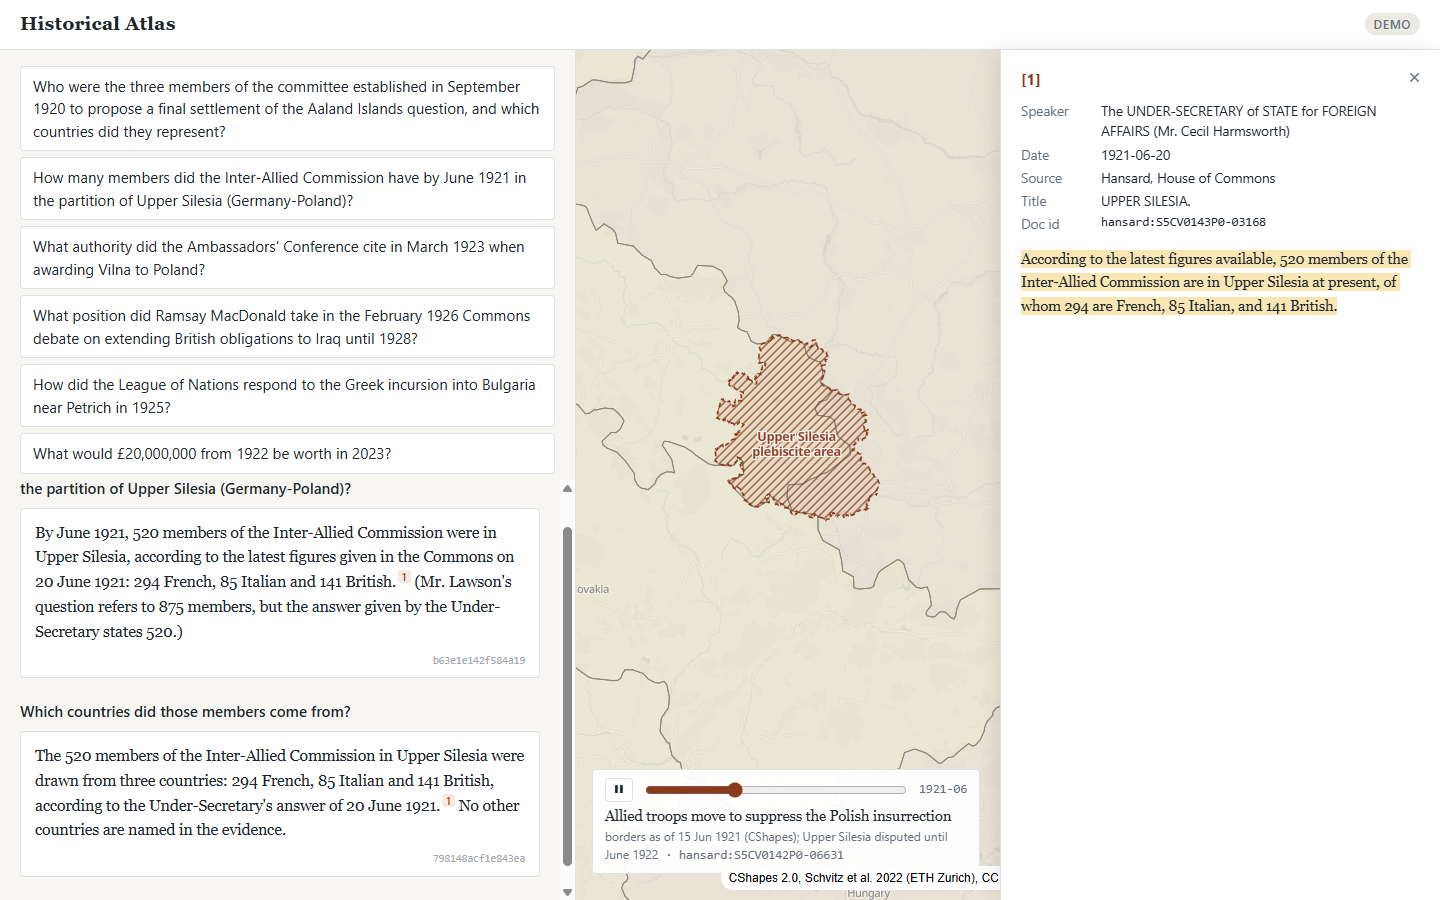
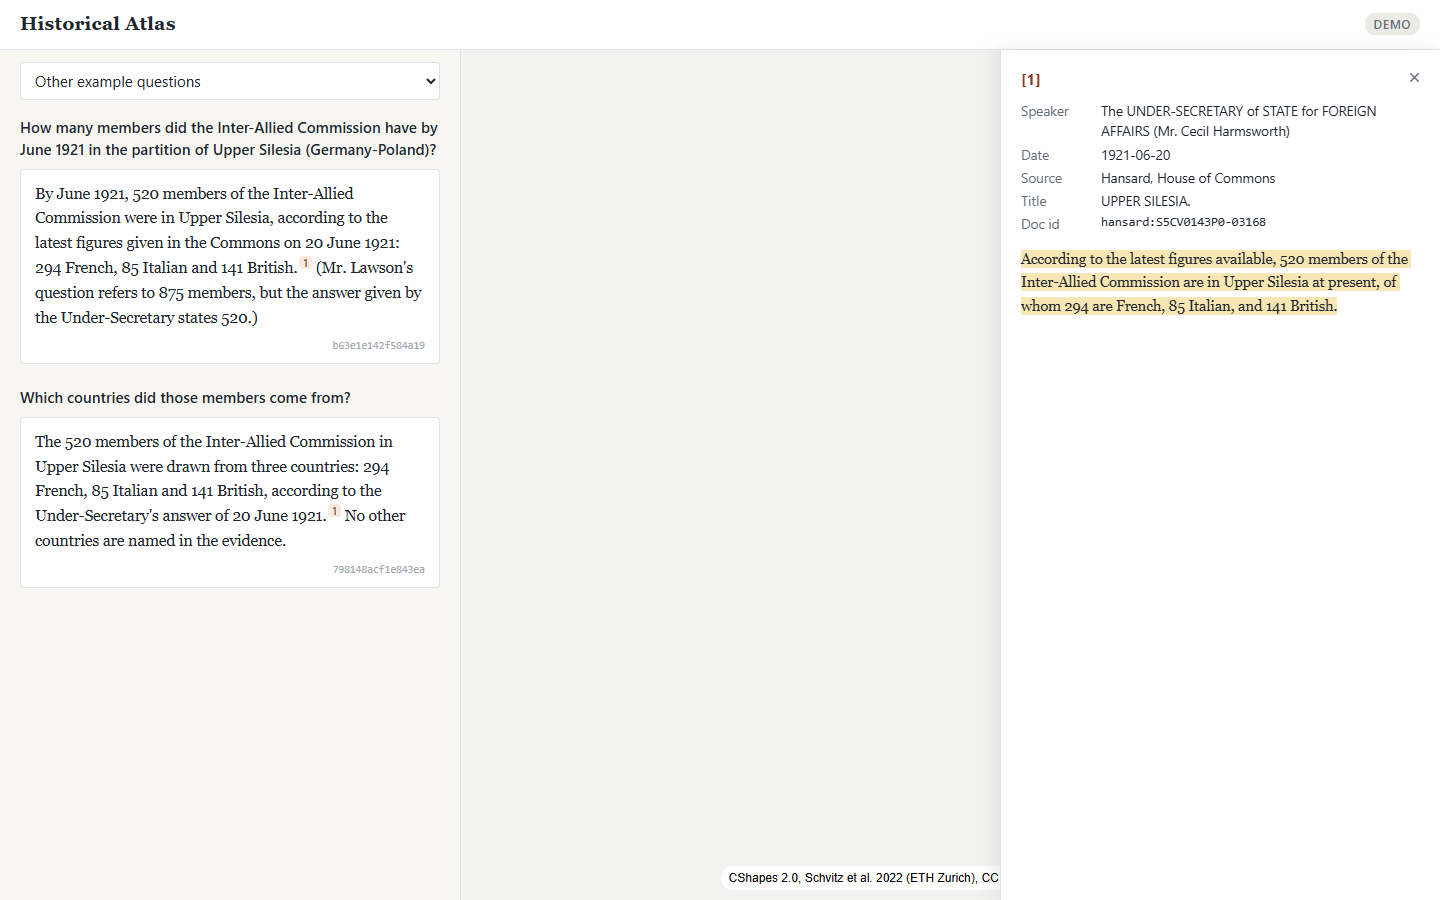
Map: overlays snapped to CShapes borders, pan/zoom limited to Europe + Near East, wider map, compact example picker

diff --git a/frontend/src/App.tsx b/frontend/src/App.tsx
@@ -8,6 +8,8 @@ import "./App.css";
 const API = import.meta.env.VITE_API_URL ?? "";
 const MAP_STYLE = "https://tiles.openfreemap.org/styles/positron";
 const EUROPE: [number, number, number, number] = [-11, 34, 48, 63];
+// Europe plus the Near East (Mosul): the user cannot pan or zoom out beyond this.
+const MAX_BOUNDS: [number, number, number, number] = [-28, 24, 64, 72];
 const REVEAL_MS = 1000;
 const STEPS = ["Searching sources", "Weighing evidence", "Writing answer"];
 const STEP_AT_MS = [0, 2500, 5500];
@@ -104,7 +106,7 @@ function CaseMap({ caseId, panelOpen }: { caseId: string | null; panelOpen: bool
   useEffect(() => {
     if (!el.current) return;
     const m = new maplibregl.Map({
-      container: el.current, style: MAP_STYLE, bounds: EUROPE, maxZoom: 7,
+      container: el.current, style: MAP_STYLE, bounds: EUROPE, maxZoom: 7, minZoom: 2.6, maxBounds: MAX_BOUNDS, renderWorldCopies: false,
       attributionControl: { compact: true, customAttribution: "CShapes 2.0, Schvitz et al. 2022 (ETH Zurich), CC BY-NC-SA 4.0" },
     });
     m.addControl(new maplibregl.NavigationControl({ showCompass: false }), "top-right");
@@ -472,11 +474,20 @@ export default function App() {
             <>
               {notice && <div className="notice">{notice}</div>}
               {!liveMode && (
-                <div className="examples">
-                  {demo.map((c) => (
-                    <button key={c.title} className="example" onClick={() => playDemo(c)}>{c.title}</button>
-                  ))}
-                </div>
+                turns.length === 0 ? (
+                  <div className="examples">
+                    {demo.map((c) => (
+                      <button key={c.title} className="example" onClick={() => playDemo(c)}>{c.title}</button>
+                    ))}
+                  </div>
+                ) : (
+                  <div className="examples compact">
+                    <select value="" onChange={(e) => { const c = demo[Number(e.target.value)]; if (c) playDemo(c); }}>
+                      <option value="" disabled>Other example questions</option>
+                      {demo.map((c, i) => <option key={c.title} value={i}>{c.title}</option>)}
+                    </select>
+                  </div>
+                )
               )}
               <div className="turns">
                 {turns.map((t) => (

diff --git a/frontend/src/App.css b/frontend/src/App.css
@@ -34,7 +34,7 @@ input { font: inherit; }
 .ask button[disabled] { opacity: 0.5; cursor: default; }
 .link { background: none; border: none; color: var(--muted); text-decoration: underline; padding: 0; }
 
-.body { flex: 1; display: grid; grid-template-columns: minmax(420px, 40%) 1fr; min-height: 0; }
+.body { flex: 1; display: grid; grid-template-columns: minmax(360px, 32%) 1fr; min-height: 0; }
 .chat { display: flex; flex-direction: column; border-right: 1px solid var(--line); min-height: 0; background: var(--bg); }
 .examples { display: flex; flex-direction: column; gap: 6px; padding: 16px 20px 6px; }
 .example { text-align: left; padding: 8px 12px; border: 1px solid var(--line); background: var(--card); border-radius: 4px; color: var(--ink); }
@@ -90,3 +90,5 @@ input { font: inherit; }
 .tl-date { font-family: var(--mono); font-size: 12.5px; color: var(--muted); }
 .tl-label { font-family: var(--serif); font-size: 14.5px; margin-top: 4px; }
 .tl-meta { font-size: 12px; color: var(--muted); }
+.examples.compact { padding: 12px 20px 4px; }
+.examples.compact select { width: 100%; padding: 7px 10px; border: 1px solid var(--line); border-radius: 4px; background: var(--card); color: var(--ink); font: inherit; }

diff --git a/backend/scripts/build_map_data.py b/backend/scripts/build_map_data.py
@@ -106,6 +106,23 @@ VILNA_BY = ["Ashmyany", "Astravyets", "Smarhon", "Voranava", "Lida", "Braslaw", 
 MOSUL = ["Ninawa", "Dihok", "Arbil", "As-Sulaymaniyah", "At-Ta'mim"]
 
 
+# Dispute areas are snapped to the CShapes map so the overlay coincides with the drawn borders and coast:
+# near any CShapes border (within EPS) the area is extended to that border, and everything is cut to CShapes land.
+# Edges far from a border (the inner admin lines) are left as they are.
+EPS = 0.06  # degrees, about 5 km
+CASE_DATE = {"aland": 19210101, "upper_silesia": 19210601, "vilna": 19210101, "mosul": 19250601,
+             "greco_bulgarian": 19251101}
+
+
+def fit(g, states, date):
+    live = [shape(f["geometry"]) for f in states if f["geometry"]["type"] != "Point"
+            and f["properties"]["s"] <= date <= f["properties"]["e"]]
+    land = unary_union(live)
+    band = unary_union([x.boundary for x in live]).buffer(EPS)
+    out = unary_union([g, g.buffer(EPS).intersection(band)]).intersection(land)
+    return out.buffer(0)
+
+
 def cases(states):
     ne = load("ne_a1.geojson")
     aland = unary_union([shape(f["geometry"]) for f in ne if f["properties"]["admin"] == "Aland"])
@@ -117,7 +134,8 @@ def cases(states):
                        pick(load("gb_BLR_2.geojson"), "shapeName", VILNA_BY)])
     pet = pick(load("gb_BGR_2.geojson"), "shapeName", ["Petrich"])
     # partition line: the Germany-Poland border inside the plebiscite area as CShapes codes it
-    at = {f["properties"]["n"]: shape(f["geometry"]) for f in states if f["properties"]["s"] <= 19250101 <= f["properties"]["e"]}
+    at = {f["properties"]["n"]: shape(f["geometry"]) for f in states
+          if f["geometry"]["type"] != "Point" and f["properties"]["s"] <= 19250101 <= f["properties"]["e"]}
     line = at["Germany"].boundary.intersection(at["Poland"].buffer(0.02)).intersection(sil.buffer(0.05))
     NE = "Natural Earth 10m admin-1 (public domain)"
     GB_OSM = "geoBoundaries gbOpen ADM2 (OpenStreetMap, ODbL 1.0)"
@@ -129,7 +147,8 @@ def cases(states):
         ("greco_bulgarian", "Petrich district", "1925", pet, "geoBoundaries gbOpen ADM2 BGR (Wikimedia, public domain): Petrich municipality", "approximate: modern municipality"),
     ]
     out = [{"type": "Feature", "properties": {"case": c, "kind": "area", "name": n, "years": y, "source": s, "approx": a},
-            "geometry": r(g)} for c, n, y, g, s, a in feats]
+            # Aland is kept as is: its islands are below the CShapes resolution, so cutting to CShapes land would erase them
+            "geometry": r(g if c == "aland" else fit(g, states, CASE_DATE[c]))} for c, n, y, g, s, a in feats]
     out.append({"type": "Feature", "properties": {"case": "upper_silesia", "kind": "line", "name": "1922 partition line",
                 "source": "CShapes 2.0 (CC BY-NC-SA 4.0): Germany-Poland border inside the plebiscite area",
                 "approx": "as coded in CShapes (which dates it from 1919, not 1922)"}, "geometry": r(line, 0.002)})
@@ -139,4 +158,8 @@ def cases(states):
 
 
 if __name__ == "__main__":
-    cases(borders())
+    import sys
+    if "--cases-only" in sys.argv:  # reuse the committed borders.geojson instead of re-running mapshaper
+        cases(json.loads((OUT / "borders.geojson").read_text())["features"])
+    else:
+        cases(borders())
